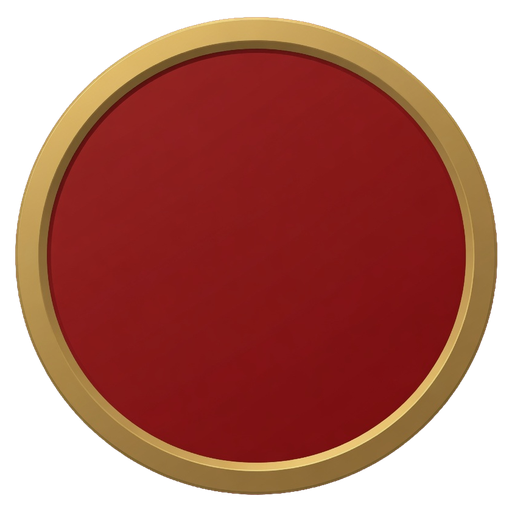
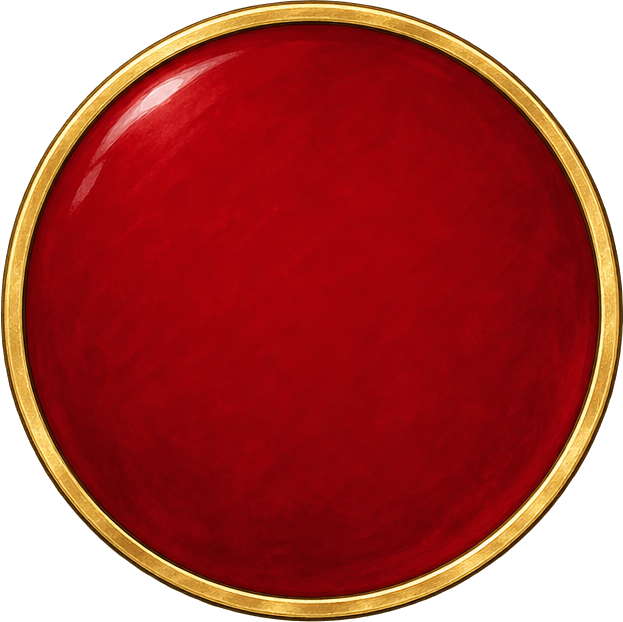
提交

diff --git a/src/ui/battle.css b/src/ui/battle.css
@@ -248,8 +248,17 @@
   isolation: isolate;
   transition: box-shadow .16s ease, filter .16s ease;
 }
+.hand-card__frame {
+  position: absolute;
+  inset: 0;
+  z-index: 2;
+  background: url('/assets/ui/card-frame.png') center / 100% 100% no-repeat;
+  pointer-events: none;
+  filter: saturate(.75);
+}
 .hand-card__art {
   position: absolute;
+  z-index: 1;
   inset: 8px 8px 126px;
   overflow: hidden;
   border-radius: 9px 9px 0 0;
@@ -257,29 +266,75 @@
 }
 .hand-card--crimson .hand-card__art { background: radial-gradient(ellipse at center, #714237, #241a19); }
 .hand-card--amber .hand-card__art { background: radial-gradient(ellipse at center, #735638, #292119); }
-.hand-card__art img { width: 100%; height: 100%; object-fit: cover; object-position: 50% 21%; pointer-events: none; }
-.hand-card--imp .hand-card__art { background: radial-gradient(ellipse at 50% 40%, #8a3a28, #1c1412 78%); }
-.hand-card--imp .hand-card__art img { object-fit: contain; object-position: 50% 62%; }
-.hand-card__art::after { content: ''; position: absolute; inset: 65% 0 0; background: linear-gradient(transparent, #211e1a); }
-.hand-card--amber .hand-card__art img { filter: sepia(.55) brightness(.82); transform: rotate(30deg) scale(1.2); }
-.hand-card__frame { position: absolute; inset: 0; z-index: 2; background: url('/assets/ui/card-frame.png') center / 100% 100% no-repeat; pointer-events: none; filter: saturate(.75); }
+.hand-card--imp .hand-card__art { background: radial-gradient(ellipse at 50% 40%, #3a3228, #1c1412 78%); }
+.hand-card__art img {
+  width: 100%;
+  height: 100%;
+  object-fit: contain;
+  object-position: 50% 46%;
+  pointer-events: none;
+}
+.hand-card--imp .hand-card__art img { object-fit: contain; object-position: 50% 48%; }
+.hand-card--amber .hand-card__art img { filter: sepia(.45) brightness(.88); transform: none; }
+.hand-card__art::after {
+  content: '';
+  position: absolute;
+  inset: 65% 0 0;
+  background: linear-gradient(transparent, #211e1a);
+}
 .hand-card__cost {
   position: absolute;
-  top: -11px;
-  left: -12px;
-  z-index: 3;
-  width: 53px;
-  height: 53px;
+  top: -5px;
+  left: -5px;
+  z-index: 4;
+  width: 34px;
+  height: 34px;
   display: grid;
   place-items: center;
-  background: url('/assets/cards/cost.png') center / contain no-repeat;
-  color: #fff0c8;
-  font: 700 30px Georgia, serif;
-  text-shadow: 0 2px 3px #17100b;
+  background: url('/assets/cards/cost.png?v=4') center / contain no-repeat;
+  color: #f6e7c4;
+  font: 700 16px Georgia, serif;
+  text-shadow: 0 1px 0 #2a1a10, 0 1px 3px #120806;
 }
-.hand-card__title { position: absolute; top: 168px; left: 12px; right: 12px; color: #f1e3c5; font: 650 20px "PingFang SC", sans-serif; letter-spacing: 1px; }
-.hand-card__kind { position: absolute; top: 199px; left: 40px; right: 40px; color: #bca681; font-size: 11px; letter-spacing: 4px; }
-.hand-card__description { position: absolute; top: 222px; left: 13px; right: 13px; color: #e2d4bb; font-size: 12.5px; line-height: 1.65; }
+.hand-card__title {
+  position: absolute;
+  z-index: 3;
+  top: 164px;
+  left: 14px;
+  right: 14px;
+  color: #f1e3c5;
+  font: 650 17px "PingFang SC", sans-serif;
+  letter-spacing: 1px;
+}
+.hand-card__kind {
+  position: absolute;
+  z-index: 3;
+  left: 14px;
+  right: 14px;
+  top: 186px;
+  bottom: auto;
+  height: 18px;
+  display: flex;
+  align-items: center;
+  justify-content: center;
+  background: none;
+  color: #b39a78;
+  font-size: 11px;
+  font-weight: 500;
+  letter-spacing: 3px;
+  text-shadow: 0 1px 2px #140a08;
+}
+.hand-card__description {
+  position: absolute;
+  z-index: 3;
+  top: 218px;
+  left: 16px;
+  right: 16px;
+  bottom: 16px;
+  color: #d8cbb4;
+  font-size: 12px;
+  line-height: 1.55;
+}
 .hand-card.is-unaffordable .hand-card__cost { color: #efaa98; filter: saturate(.65); }
 .hand-card.is-unaffordable .hand-card__art { filter: saturate(.55) brightness(.72); }
 .hand-card.is-dragged { cursor: grabbing; }

diff --git a/src/render/fighterCards.ts b/src/render/fighterCards.ts
@@ -43,21 +43,21 @@ type FighterDef = {
 
 const FIGHTERS: FighterDef[] = [
   {
-    src: '/assets/chars/hero.png',
-    name: '夜羽',
+    src: '/assets/chars/druid.png?v=1',
+    name: '德鲁伊',
     atk: 0,
     armor: 0,
     hp: 20,
     maxHp: 20,
-    inner: '#34423d',
+    inner: '#2a241c',
   },
   {
-    src: '/assets/chars/foe.png',
-    name: '缝偶',
+    src: '/assets/chars/druid.png?v=1',
+    name: '德鲁伊',
     atk: 8,
     hp: 5,
     maxHp: 20,
-    inner: '#58352e',
+    inner: '#2a241c',
   },
 ];
 
@@ -363,12 +363,11 @@ export class FighterCards {
     g.fillStyle = backdrop;
     g.fillRect(ix, iy, iw, ih);
 
-    // Cover the portrait window; the frame masks the edges, the footer masks the bust.
     const portraitHeight = 376;
-    const scale = Math.max(iw / portrait.naturalWidth, portraitHeight / portrait.naturalHeight);
+    const scale = Math.min(iw / portrait.naturalWidth, portraitHeight / portrait.naturalHeight) * 1.08;
     const dw = portrait.naturalWidth * scale;
     const dh = portrait.naturalHeight * scale;
-    g.drawImage(portrait, x + (w - dw) / 2, iy + 4, dw, dh);
+    g.drawImage(portrait, x + (w - dw) / 2, iy + 8, dw, dh);
 
     const fade = g.createLinearGradient(0, y + 282, 0, y + 382);
     fade.addColorStop(0, 'rgba(23, 18, 17, 0)');
@@ -384,26 +383,26 @@ export class FighterCards {
     g.textAlign = 'left';
     g.fillStyle = IVORY;
     g.font = `600 26px ${LABEL_FONT}`;
-    g.fillText(f.name, x + 30, y + 372);
+    g.fillText(f.name, x + 22, y + 372);
     if (i === 0) {
       const displayedAttack = this.settlementPreview?.attack ?? f.atk;
       const displayedArmor = this.settlementPreview?.armor ?? f.armor ?? 0;
       g.font = `500 11px ${LABEL_FONT}`;
       g.fillStyle = '#d08b70';
       g.textAlign = 'left';
-      g.fillText('攻', x + 105, y + 374);
+      g.fillText('攻', x + 126, y + 374);
       g.textAlign = 'right';
       g.fillStyle = '#f0c0a9';
       g.font = '600 19px Georgia, serif';
-      g.fillText(String(displayedAttack), x + 158, y + 374);
+      g.fillText(String(displayedAttack), x + 168, y + 374);
       g.textAlign = 'left';
       g.fillStyle = '#92b69c';
       g.font = `500 11px ${LABEL_FONT}`;
-      g.fillText('甲', x + 178, y + 374);
+      g.fillText('甲', x + 184, y + 374);
       g.textAlign = 'right';
       g.fillStyle = '#c9e2d0';
       g.font = '600 19px Georgia, serif';
-      g.fillText(String(displayedArmor), x + w - 30, y + 374);
+      g.fillText(String(displayedArmor), x + w - 22, y + 374);
     } else {
       g.fillStyle = '#bcaa8b';
       g.font = `500 12px ${LABEL_FONT}`;
@@ -461,9 +460,8 @@ export class FighterCards {
     g.restore();
     g.restore();
 
-    // Keep the existing ornamental frame, with a restrained brass tint.
     g.save();
-    g.filter = 'saturate(0.62)';
+    g.filter = 'saturate(0.75)';
     g.drawImage(this.frame, x, y, w, h);
     g.restore();
   }

diff --git a/src/render/board.ts b/src/render/board.ts
@@ -151,11 +151,7 @@ export class StoneBoard {
 
   private constructor(
     private readonly tiles: HTMLImageElement[],
-    private readonly attackIcon: HTMLImageElement,
-    private readonly goldIcon: HTMLImageElement,
-    private readonly slaveIcon: HTMLImageElement,
-    private readonly threatIcon: HTMLImageElement,
-    private readonly impIcon: HTMLImageElement,
+    private readonly icons: Record<PieceKind, HTMLImageElement>,
   ) {
     this.mask = document.createElement('canvas');
     this.mask.width = DISSOLVE_MASK;
@@ -172,15 +168,16 @@ export class StoneBoard {
   }
 
   static async create(): Promise<StoneBoard> {
-    const [tiles, attackIcon, goldIcon, slaveIcon, threatIcon, impIcon] = await Promise.all([
+    const kinds = Object.keys(PIECE_ART) as PieceKind[];
+    const [tiles, iconList] = await Promise.all([
       Promise.all(TILE_URLS.map(loadImage)),
-      loadImage(PIECE_ART.mark),
-      loadImage(PIECE_ART.gold),
-      loadImage(PIECE_ART.slave),
-      loadImage(PIECE_ART.threat),
-      loadImage(PIECE_ART.imp),
+      Promise.all(kinds.map((kind) => loadImage(PIECE_ART[kind]))),
     ]);
-    return new StoneBoard(tiles, attackIcon, goldIcon, slaveIcon, threatIcon, impIcon);
+    const icons = {} as Record<PieceKind, HTMLImageElement>;
+    kinds.forEach((kind, index) => {
+      icons[kind] = iconList[index]!;
+    });
+    return new StoneBoard(tiles, icons);
   }
 
   /** Enchanted destination highlight while the player is holding a card. */
@@ -640,11 +637,7 @@ export class StoneBoard {
   }
 
   private pieceIcon(kind: PieceKind): HTMLImageElement {
-    if (kind === 'gold' || kind === 'energy') return this.goldIcon;
-    if (kind === 'slave' || kind === 'guard') return this.slaveIcon;
-    if (kind === 'threat') return this.threatIcon;
-    if (kind === 'imp') return this.impIcon;
-    return this.attackIcon;
+    return this.icons[kind] ?? this.icons.mark;
   }
 
   private drawStandingPieces(

diff --git a/src/ui/cardEditor.css b/src/ui/cardEditor.css
@@ -48,38 +48,41 @@
 }
 
 .card-editor-preview .hand-card__cost {
-  top: calc(-11px + var(--nudge-y, 0px));
-  left: calc(-12px + var(--nudge-x, 0px));
+  top: calc(-5px + var(--nudge-y, 0px));
+  left: calc(-5px + var(--nudge-x, 0px));
 }
 
 .card-editor-preview .hand-card__title {
-  top: calc(160px + var(--nudge-y, 0px));
-  left: calc(12px + var(--nudge-x, 0px));
-  right: calc(12px - var(--nudge-x, 0px));
+  top: calc(164px + var(--nudge-y, 0px));
+  left: calc(14px + var(--nudge-x, 0px));
+  right: calc(14px - var(--nudge-x, 0px));
 }
 
 .card-editor-preview .hand-card__kind {
   top: calc(186px + var(--nudge-y, 0px));
-  left: calc(40px + var(--nudge-x, 0px));
-  right: calc(40px - var(--nudge-x, 0px));
+  bottom: auto;
+  left: calc(14px + var(--nudge-x, 0px));
+  right: calc(14px - var(--nudge-x, 0px));
+  height: 18px;
   letter-spacing: 3px;
 }
 
 .card-editor-preview .hand-card__stats {
   position: absolute;
   z-index: 5;
-  top: calc(204px + var(--nudge-y, 0px));
-  left: calc(12px + var(--nudge-x, 0px));
-  right: calc(12px - var(--nudge-x, 0px));
-  color: #d7c49a;
-  font: 600 12px/1.2 "PingFang SC", "Hiragino Sans GB", sans-serif;
+  top: calc(202px + var(--nudge-y, 0px));
+  left: calc(14px + var(--nudge-x, 0px));
+  right: calc(14px - var(--nudge-x, 0px));
+  color: #cbb892;
+  font: 600 11px/1.2 "PingFang SC", "Hiragino Sans GB", sans-serif;
   letter-spacing: 1px;
 }
 
 .card-editor-preview .hand-card__description {
-  top: calc(224px + var(--nudge-y, 0px));
-  left: calc(13px + var(--nudge-x, 0px));
-  right: calc(13px - var(--nudge-x, 0px));
+  top: calc(218px + var(--nudge-y, 0px));
+  left: calc(16px + var(--nudge-x, 0px));
+  right: calc(16px - var(--nudge-x, 0px));
+  bottom: 16px;
   font-size: 12px;
 }
 

diff --git a/src/config/pieces.ts b/src/config/pieces.ts
@@ -1,16 +1,16 @@
 /** Shared by the board and the held placement preview. */
 export const PIECE_ART = {
-  mark: '/assets/icons/attack.png',
-  gold: '/assets/icons/gold-mine.png?v=3',
-  slave: '/assets/icons/slave.png',
-  guard: '/assets/icons/slave.png',
-  energy: '/assets/icons/gold-mine.png?v=3',
+  mark: '/assets/chars/antlers.png?v=1',
+  gold: '/assets/chars/coin-bag.png?v=1',
+  slave: '/assets/chars/coin-bag.png?v=1',
+  guard: '/assets/chars/iron-shield.png?v=1',
+  energy: '/assets/chars/coin-bag.png?v=1',
   threat: '/assets/chars/foe.png',
-  imp: '/assets/chars/imp.png?v=1',
+  imp: '/assets/chars/druid-token.png?v=1',
 } as const;
 export type PieceKind = keyof typeof PIECE_ART;
 export type CardKey = 'blade' | 'leap' | 'slash' | 'mist' | 'hook' | 'slave' | 'imp';
-export const STANDING_PIECES: ReadonlySet<PieceKind> = new Set(['imp']);
+export const STANDING_PIECES: ReadonlySet<PieceKind> = new Set();
 export type BoardUnit = {
   id: number;
   owner: 'player' | 'enemy';

diff --git a/src/ui/BattleView.ts b/src/ui/BattleView.ts
@@ -20,7 +20,13 @@ type CardNode = {
   state: 'hand' | 'play' | 'discard'; elapsed: number; delay: number;
   layer: number;
 };
-const ART = { hero: '/assets/chars/hero.png', foe: '/assets/chars/foe.png', sword: '/assets/icons/attack.png', slave: '/assets/chars/slave.png?v=2', imp: '/assets/chars/imp.png?v=1' };
+const ART = {
+  hero: '/assets/chars/iron-shield.png?v=1',
+  foe: '/assets/chars/antlers.png?v=1',
+  sword: '/assets/chars/antlers.png?v=1',
+  slave: '/assets/chars/coin-bag.png?v=1',
+  imp: '/assets/chars/druid.png?v=1',
+};
 const PILE_BUTTON = { width: 100, height: 125, backWidth: 62, backHeight: 89 };
 const DRAW_PILE = { left: 280, top: 940, scale: 0.8 };
 const DISCARD_PILE = { left: 1540, top: 985, scale: 0.65 };

diff --git a/src/config/catalog.ts b/src/config/catalog.ts
@@ -66,6 +66,11 @@ const CHAR_LABELS: Record<string, string> = {
   foe: '敌人',
   slave: '矿工',
   imp: '小恶魔',
+  druid: '德鲁伊',
+  'druid-token': '德鲁伊地块',
+  antlers: '鹿角',
+  'iron-shield': '铁木盾',
+  'coin-bag': '钱袋',
   'dwarf-musketeer': '矮人火枪手',
   'dwarf-rifleman': '矮人步枪手',
 };
@@ -177,7 +182,7 @@ export function createDefaultCatalog(): CatalogSave {
     attack: 4,
     armor: 0,
     description: '留在棋盘上；每回合扣自己 1 点生命，结算 4 点攻击。',
-    art: '/assets/chars/imp.png',
+    art: '/assets/chars/druid.png',
   });
   return {
     cards: [strike, imp],

diff --git a/src/ui/CardPreview.ts b/src/ui/CardPreview.ts
@@ -116,7 +116,8 @@ export function mountCardPreview(
     paint: (card, nextLayout, selected) => {
       cardEl.classList.toggle('hand-card--consume', card.persist === 'consume');
       cardEl.classList.toggle('hand-card--demon', card.school === 'demon');
-      cardEl.classList.toggle('hand-card--imp', artKey(card.art).includes('/imp.'));
+      const key = artKey(card.art);
+      cardEl.classList.toggle('hand-card--imp', key.includes('/imp.') || key.includes('/druid.'));
       img.src = artUrl(card.art);
       nodes.cost.textContent = String(card.cost);
       nodes.title.textContent = card.title || '未命名';

diff --git a/src/render/radialDissolve.ts b/src/render/radialDissolve.ts
@@ -3,7 +3,8 @@
 export const DISSOLVE_MASK = 56;
 export const DISSOLVE_SEC = 0.4;
 export const DISSOLVE_STAGGER_SEC = 0.1;
-export const ICON_FRAC = 1;
+/** In-tile tokens cover the cell; tile roundRect clips overflow. */
+export const ICON_FRAC = 1.36;
 
 const SOFT_FRAC = 0.16;
 const NOISE_FRAC = 0.11;
